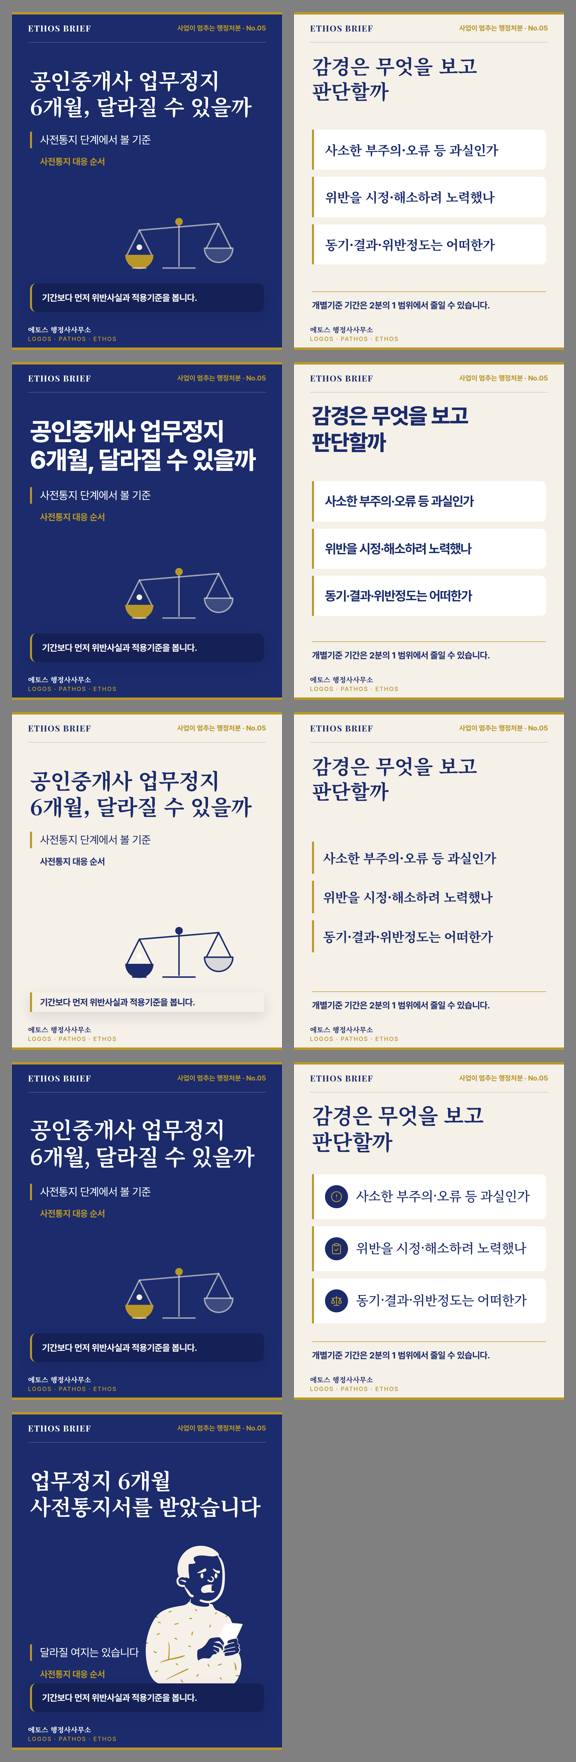
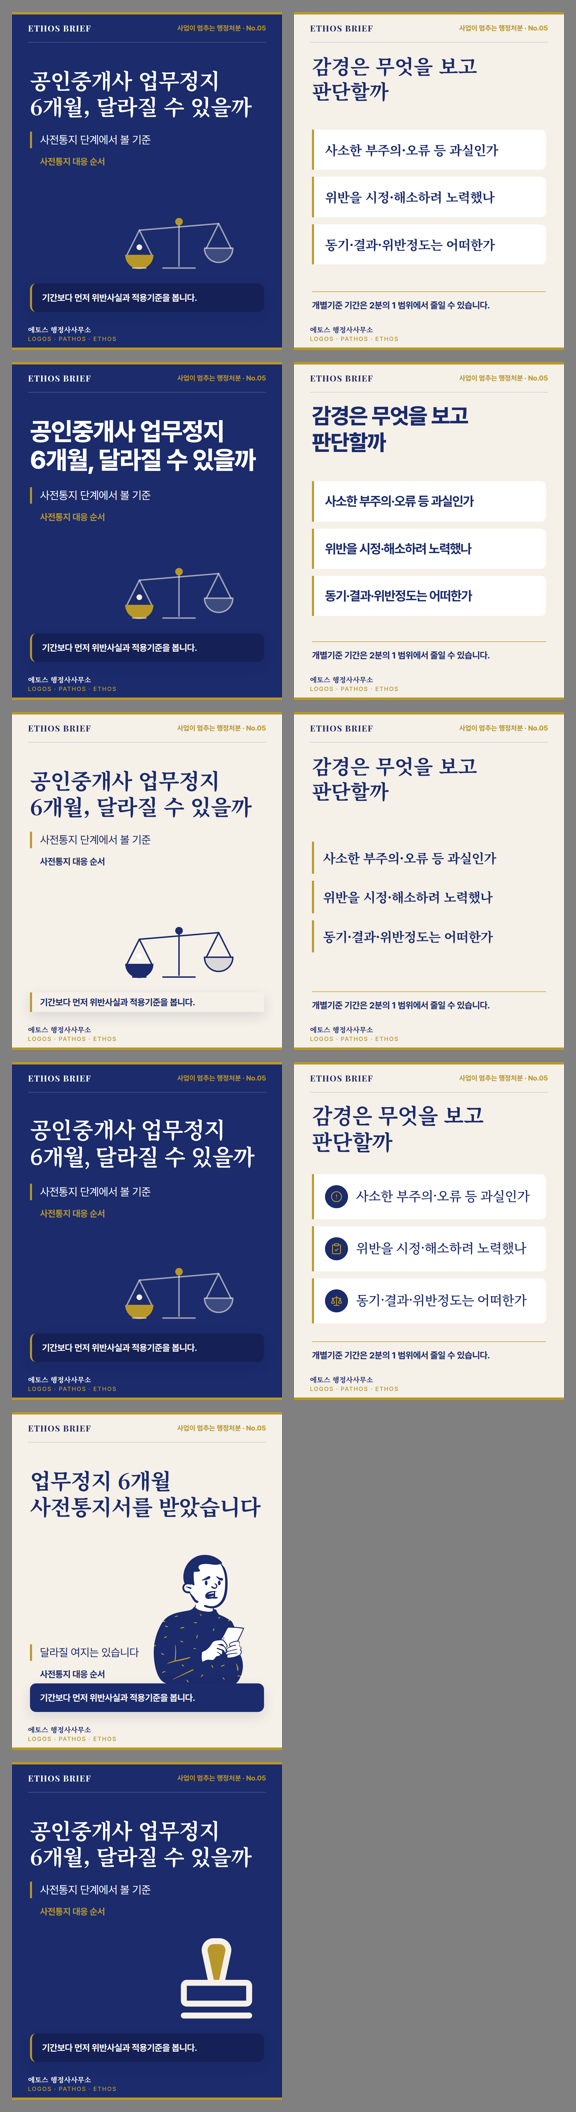
인물은 크림 표지 전용, 물건 일러스트(Phosphor duotone MIT) 30종과 시안 F, data-asset 출처 기록 검사
Claude-Session: https://claude.ai/code/session_01XJD6AHkNYPHXqBnKdBbr1J

diff --git a/examples/free-design-realtor/drafts/F/ko/card_01.html b/examples/free-design-realtor/drafts/F/ko/card_01.html
@@ -1,0 +1,21 @@
+<!doctype html>
+<html lang="ko"><head><meta charset="utf-8"><meta name="ethos-design" content="free">
+<link rel="stylesheet" href="../../../../../brand/tokens.css">
+<link rel="stylesheet" href="../../../../../brand/fonts.css">
+<link rel="stylesheet" href="../../../../../templates/base.css">
+<link rel="stylesheet" href="../../../../../templates/card-types.css">
+<link rel="stylesheet" href="../../../design.css">
+<link rel="stylesheet" href="../../F.css">
+</head><body>
+<div class="card free navy lang-ko canvas-portrait family-social-native" data-card-type="cover" data-bg="navy" data-page="1" data-canvas="portrait" data-visual-family="social-native">
+  <div class="gold-top" data-frame="gold-top"></div>
+  <div class="hdr"><span class="wm" data-frame="wordmark">ETHOS BRIEF</span><span class="sec" data-frame="section">사업이 멈추는 행정처분 · No.05</span></div>
+  <div class="hl" data-frame="line"></div>
+  <div class="body">
+    <div class="z-title" data-zone="title"><p class="cv-title" data-role="headline">공인중개사 업무정지<br>6개월, 달라질 수 있을까</p></div>
+    <div class="z-main" data-zone="main"><div class="cv-wrap"><p class="cv-lede">사전통지 단계에서 볼 기준</p><p class="cv-promise" data-role="label">사전통지 대응 순서</p></div><div class="cv-art obj-hero" data-decor data-focal><svg class="obj" data-asset="phosphor/stamp" aria-hidden="true" focusable="false" xmlns="http://www.w3.org/2000/svg" viewBox="0 0 256 256" fill="currentColor"><path d="M159.46,53l-17.78,83H114.32L96.54,53A24,24,0,0,1,120,24h16A24,24,0,0,1,159.46,53Z" style="fill:var(--obj-fill, var(--ethos-gold))"/><path d="M224,224a8,8,0,0,1-8,8H40a8,8,0,0,1,0-16H216A8,8,0,0,1,224,224Zm0-80v40a16,16,0,0,1-16,16H48a16,16,0,0,1-16-16V144a16,16,0,0,1,16-16h56.43L88.72,54.71A32,32,0,0,1,120,16h16a32,32,0,0,1,31.29,38.71L151.57,128H208A16,16,0,0,1,224,144ZM120.79,128h14.42l16.43-76.65A16,16,0,0,0,136,32H120a16,16,0,0,0-15.65,19.35ZM208,184V144H48v40H208Z"/></svg></div></div>
+    <div class="z-take" data-zone="take"><div class="take" data-role="takeaway">기간보다 먼저 위반사실과 적용기준을 봅니다.</div></div>
+  </div>
+  <div class="ftr"><div class="org" data-frame="org">에토스 행정사사무소</div><div class="tagl" data-frame="tagline">LOGOS · PATHOS · ETHOS</div><div class="pg" data-frame="page" aria-hidden="true"></div></div>
+  <div class="gold-bottom" data-frame="gold-bottom"></div>
+</div></body></html>

diff --git a/examples/free-design-realtor/drafts/E.css b/examples/free-design-realtor/drafts/E.css
@@ -1,5 +1,5 @@
-/* 시안 E: 생활 장면형 표지. assets/illustrations/people/notice-worried.svg(Open Peeps, CC0)를 브랜드 색 선화로 */
-.cv-scene { display:grid; grid-template-columns:1fr 236px; align-items:end; gap:8px; height:100%; }
-.cv-peep { align-self:end; width:236px; margin-bottom:-6px; }
+/* 시안 E: 생활 장면형 표지(크림 배경 전용: 인물은 네이비 배경에서 어색해 크림에서만 쓴다). assets/illustrations/people/notice-worried.svg(Open Peeps, CC0)를 브랜드 색 선화로 */
+.cv-scene { display:grid; grid-template-columns:1fr 220px; align-items:end; gap:8px; height:100%; }
+.cv-peep { align-self:end; width:220px; margin-bottom:-6px; }
 .cv-peep svg { width:100%; height:auto; display:block; overflow:visible; }
 .free[data-card-type="cover"] .z-main:has(.cv-scene) { justify-content:flex-end; }

diff --git a/templates/presets/ethos-a.css b/templates/presets/ethos-a.css
@@ -119,3 +119,11 @@
 
 /* 인물 장면 일러스트(assets/illustrations/people, Open Peeps CC0): 배경에 따라 선·피부 색을 바꾼다 */
 .free.cream .peep { --peep-line: var(--ethos-navy); --peep-skin: var(--ethos-white); --peep-top: var(--ethos-gold); --peep-paper: var(--ethos-white); }
+
+/* 물건 일러스트(assets/illustrations/objects, Phosphor duotone MIT): 선은 배경 반대색, 면은 골드 */
+.obj-hero { width:200px; height:200px; color:var(--ethos-cream); }
+.free.cream .obj-hero { color:var(--ethos-navy); }
+.obj-hero svg { width:100%; height:100%; display:block; }
+
+/* 크림 표지(생활 장면형 등): 제목·부제·약속 문구는 네이비 */
+.free.cream .cv-title, .free.cream .cv-lede, .free.cream .cv-promise { color:var(--ethos-navy); }

diff --git a/examples/free-design-realtor/drafts/E/ko/card_01.html b/examples/free-design-realtor/drafts/E/ko/card_01.html
@@ -7,7 +7,7 @@
 <link rel="stylesheet" href="../../../design.css">
 <link rel="stylesheet" href="../../E.css">
 </head><body>
-<div class="card free navy lang-ko canvas-portrait family-social-native" data-card-type="cover" data-bg="navy" data-page="1" data-canvas="portrait" data-visual-family="social-native">
+<div class="card free cream lang-ko canvas-portrait family-social-native" data-card-type="cover" data-bg="cream" data-page="1" data-canvas="portrait" data-visual-family="social-native">
   <div class="gold-top" data-frame="gold-top"></div>
   <div class="hdr"><span class="wm" data-frame="wordmark">ETHOS BRIEF</span><span class="sec" data-frame="section">사업이 멈추는 행정처분 · No.05</span></div>
   <div class="hl" data-frame="line"></div>

diff --git a/examples/free-design-realtor/drafts/F.css b/examples/free-design-realtor/drafts/F.css
@@ -1,0 +1,2 @@
+/* 시안 F: 기본 표지 구성에 물건 그림(도장, Phosphor duotone MIT)을 시각 중심으로. 네이비 배경에서 크림 선 + 골드 면 */
+.free[data-card-type="cover"] .cv-art.obj-hero { width:190px; height:190px; align-self:flex-end; }

diff --git a/scripts/copy_lint.py b/scripts/copy_lint.py
@@ -556,12 +556,17 @@ def used_icons(data):
 def lint_assets(folder, loaded, report):
     """Every icon drawn on a card must have a provenance row in assets.md (docs/asset-policy.md)."""
     names = set().union(*(used_icons(d) for d in loaded.values())) if loaded else set()
+    assets = set()
     for html in list(folder.glob("ko/card_*.html")) + list(folder.glob("en/card_*.html")):
-        names.update(re.findall(r'data-icon="([a-z0-9-]+)"', html.read_text(encoding="utf-8")))  # 자유 디자인 카드
-    if not names:
+        page = html.read_text(encoding="utf-8")
+        names.update(re.findall(r'data-icon="([a-z0-9-]+)"', page))  # 자유 디자인 카드
+        assets.update(re.findall(r'data-asset="([a-z0-9-]+/[a-z0-9-]+)"', page))  # 인물(open-peeps)·물건(phosphor) 일러스트
+    if not names and not assets:
         return
     path = folder / "assets.md"
     text = path.read_text(encoding="utf-8") if path.exists() else ""
+    for asset in sorted(a for a in assets if a not in text):
+        report.add("warn", "asset-unrecorded", "assets.md", f"카드에 쓴 일러스트 '{asset}'의 출처 기록이 없습니다.", "assets.md 표에 한 줄 추가하고 EXTERNAL ASSETS: Yes로 두세요.")
     missing = sorted(n for n in names if f"lucide/{n}.svg" not in text)
     report.metrics["icons.used"] = len(names)
     for name in missing:

diff --git a/CHANGELOG.md b/CHANGELOG.md
@@ -2,7 +2,7 @@
 
 ## 2026-10-06 — 독자 표현·웹사이트 FAQ·대안 표지
 
-- 생활 장면형 표지: Open Peeps(CC0) 인물 5종을 브랜드 색 토큰으로 바꿔 `assets/illustrations/people/`에 넣었다(크림 카드에서는 선이 네이비로 바뀜). 시안 E(사전통지서를 든 사장님, 빈 띠 11%), 가이드 10-0-3절, 자산 정책.
+- 생활 장면형 표지: Open Peeps(CC0) 인물 5종을 브랜드 색 토큰으로 바꿔 `assets/illustrations/people/`에 넣었다. 사용자 피드백으로 **크림 표지에서만** 쓴다. 시안 E(크림, 사전통지서를 든 사장님). 네이비용으로 Phosphor duotone(MIT) 물건 그림 30종 `assets/illustrations/objects/`(선은 배경 반대색, 면은 골드)과 시안 F(도장). 크림 표지 글자는 네이비(프리셋 A). `copy_lint.py`가 `data-asset` 출처 기록 누락을 경고. 가이드 10-0-3절, 자산 정책.
 - 국문 문체 오픈소스: `scripts/prose_hints.py`와 `Prose hints` 워크플로. MuncheKit v0.2.0(MIT, `.munche.json`)이 번역투·생성형 상투 대구·명사화·겹말·근거 없는 강조·문두 접속어를, ko-mt-lint(MIT, 커밋 고정)가 LLM 초안의 활용 오류·조사 중복을 원고 PR 댓글로 알린다. 법률 한정어를 지우라는 KO-POSS-001과 잡음 규칙(KO-PARA·KO-END)은 끔. 기존 블로그 3편 실측 12건. 상투 표현 목록에 "도움이 되셨기를", "결론적으로" 등 추가.
 - 리뷰 반영: 표지 시험은 같은 채널·시간대의 연속 세트에서만 비교(다르면 "비교 불가"), 상담 질문의 전화번호(공백·점·+82)도 제외, FAQ 답은 `A. `만 인정, 프리셋 A 흰색을 토큰(`--ethos-white`)으로.
 - 독자 표현: `scripts/reader_phrases.py`가 Search Console·네이버 서치어드바이저 검색어 CSV와 상담 질문(익명)을 모아 `state/reader-language.md`(질문형 검색어, 노출 상위, 제목을 바꿔 볼 검색어, 주제 낱말)를 만든다. 전화·이메일·주민번호 형태 줄은 버린다. 블로그 명세·성과학습·프로젝트 지침이 제목·첫 문장·FAQ 질문에 이 표현을 쓰게 한다. 웹사이트 문의 내보내기에는 본문이 없어 검색어를 기본 자료로 삼았다.

diff --git a/docs/asset-policy.md b/docs/asset-policy.md
@@ -24,11 +24,15 @@
 
 ## 인물 장면 일러스트 (Open Peeps, CC0)
 
-`assets/illustrations/people/`의 인물 5종(서류를 든 걱정, 설명, 온라인 신청, 차분한 사장님, 안내)은 Open Peeps(CC0)를 브랜드 색으로 바꾼 것이다. 색은 `--peep-*` → `--ethos-*` 토큰이라 네이비·크림 어디서나 대비가 맞는다(크림 카드는 프리셋 A가 선을 네이비로 바꾼다).
+`assets/illustrations/people/`의 인물 5종(서류를 든 걱정, 설명, 온라인 신청, 차분한 사장님, 안내)은 Open Peeps(CC0)를 브랜드 색으로 바꾼 것이다. **크림(베이지) 카드에서만 쓴다.** 네이비 배경 위 인물은 어색하다는 사용자 피드백(2026-10-06)에 따른 것이다. 네이비 카드에는 아래 물건 그림을 쓴다.
 
 - 생활 장면형 표지처럼 "누가 어떤 상황인지"를 2초 안에 보여 줄 때만 쓴다. 본문 카드의 장식으로 쓰지 않는다.
 - 특정 고객·사건·직원처럼 보이게 쓰지 않는다. 표정은 상황(걱정·설명)까지만, 과장된 공포·분노 표정은 쓰지 않는다.
 - 쓰면 `assets.md`에 `open-peeps/<파일 이름>`과 CC0을 한 줄 적는다.
+
+## 물건 일러스트 (Phosphor duotone, MIT)
+
+`assets/illustrations/objects/`의 물건 30종(도장·저울·서류·신분증·가게·달력·모래시계·비행기 등)은 네이비·크림 어느 카드에나 쓴다. 선은 배경 반대색, 면은 골드다. 쓰면 `assets.md`에 `phosphor/<이름>`과 MIT를 적는다(`copy_lint.py`가 `data-asset` 값으로 누락을 경고).
 
 ## 금지·주의
 

diff --git a/assets/illustrations/objects/README.md b/assets/illustrations/objects/README.md
@@ -1,0 +1,16 @@
+# 물건 일러스트 (Phosphor Icons duotone, MIT)
+
+- 원본: Phosphor Icons 2.1.1(`@phosphor-icons/core`, `assets/duotone/`), MIT(`LICENSE-phosphor.txt`), 2026-10-06
+- 수정: 색만 바꿨다. 원본의 옅은 층(opacity 0.2)을 브랜드 골드 면(`--obj-fill`, 기본 `--ethos-gold`)으로, 선은 `currentColor`로 둔다. 도형은 그대로.
+- 프리셋 A가 배경에 맞춰 선 색을 정한다: 네이비 카드는 크림 선, 크림 카드는 네이비 선. 사람 그림보다 사무소 톤에 맞고 네이비 표지에도 쓸 수 있다.
+
+| 주제 | 파일 |
+|---|---|
+| 처분·심판 | stamp, scales, gavel, warning-circle, prohibit, seal-check, certificate |
+| 서류 | file-text, file-magnifying-glass, clipboard-text, envelope-simple-open, receipt, scroll, folder-open |
+| 기한 | calendar-x, calendar-check, hourglass-medium |
+| 체류·비자 | identification-card, airplane-tilt |
+| 사업·장소 | storefront, building-office, house-line, briefcase, bank, truck, bowl-food, laptop |
+| 돈·계약 | money, handshake, magnifying-glass |
+
+쓰는 법: SVG를 카드 HTML에 붙이고 `.obj-hero`(큰 그림 하나) 안에 둔다. `assets.md`에 `phosphor/<이름>`과 MIT를 적는다. 한 카드에 하나, 표지나 쉼 카드의 시각 중심으로 쓴다.

diff --git a/docs/card-design-guide.md b/docs/card-design-guide.md
@@ -116,7 +116,10 @@ card-data 표지에 `altCover`가 있으면 `content/<ID>/<lang>/alt/card_01.htm
 
 ## 10-0-3. 생활 장면형 표지 (인물 일러스트)
 
-조회가 높았던 글은 독자의 구체 상황을 바로 보여 줬다(글감관리표 마케팅 점검). 표지 Hook이 situation이면 `assets/illustrations/people/`의 인물 하나를 표지 오른쪽 아래에 크게 둔다(예시 `examples/free-design-realtor/drafts/E/`). 제목은 원문의 상황 문장을 그대로 쓴다. 인물은 표지에만, 세트당 한 번.
+조회가 높았던 글은 독자의 구체 상황을 바로 보여 줬다(글감관리표 마케팅 점검). 표지 Hook이 situation이면 둘 중 하나를 표지 시각 중심으로 크게 둔다.
+
+- **인물**(`assets/illustrations/people/`): **크림 표지에서만**(예시 `drafts/E/`). 제목은 원문의 상황 문장을 그대로. 세트당 한 번.
+- **물건**(`assets/illustrations/objects/`, `.obj-hero`): 네이비·크림 어디나(예시 `drafts/F/`, 도장). 처분은 도장·저울, 서류는 file-text, 기한은 calendar-x·hourglass, 비자는 identification-card·airplane-tilt, 가게는 storefront처럼 주제의 물건 하나.
 
 ## 10-1. 아이콘 (Lucide, ISC)
 

diff --git a/examples/free-design-realtor/drafts/README.md b/examples/free-design-realtor/drafts/README.md
@@ -5,5 +5,6 @@
 - A: 브랜드 세리프 제목 + Pretendard 본문 (시범 세트 채택)
 - B: 제목까지 Pretendard 800, 굵은 타이포
 - C: 모든 카드 크림 바탕 여백형, 상자 대신 선
-- E: 생활 장면형 표지. 제목은 원문 첫 문장("업무정지 6개월 사전통지서를 받았습니다"), 인물은 `assets/illustrations/people/`(Open Peeps CC0, 브랜드 색). 인물 5종 미리보기 `people-sheet.png`(위 네이비, 아래 크림)
+- F: 기본 표지 + 물건 그림(도장, `assets/illustrations/objects/stamp.svg`, Phosphor MIT). 네이비 배경용
+- E: 생활 장면형 표지(크림 배경 전용). 제목은 원문 첫 문장("업무정지 6개월 사전통지서를 받았습니다"), 인물은 `assets/illustrations/people/`(Open Peeps CC0, 브랜드 색). 인물 5종 미리보기 `people-sheet.png`(위 네이비, 아래 크림)
 - D: 마루 부리(MaruBuri) 명조 제목 + 항목 아이콘 배지(`templates/presets/ethos-d.css`). 아이콘은 `scripts/icon_svg.py`로 넣었다
